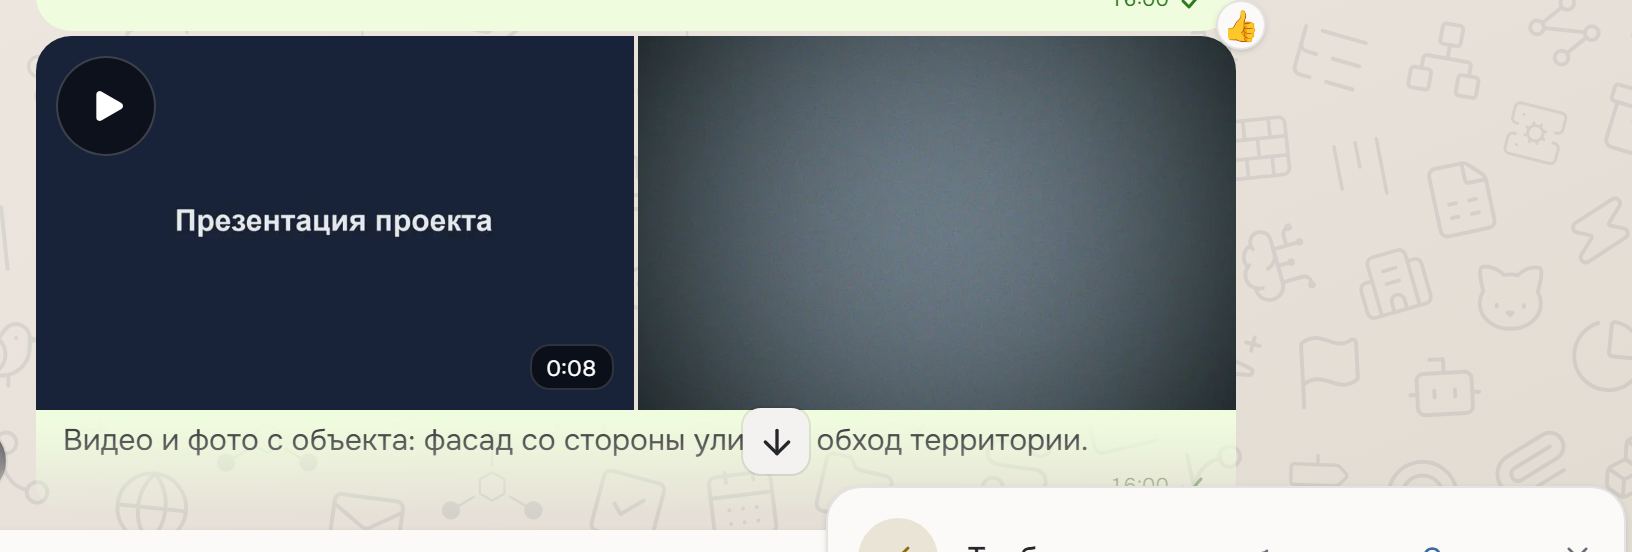
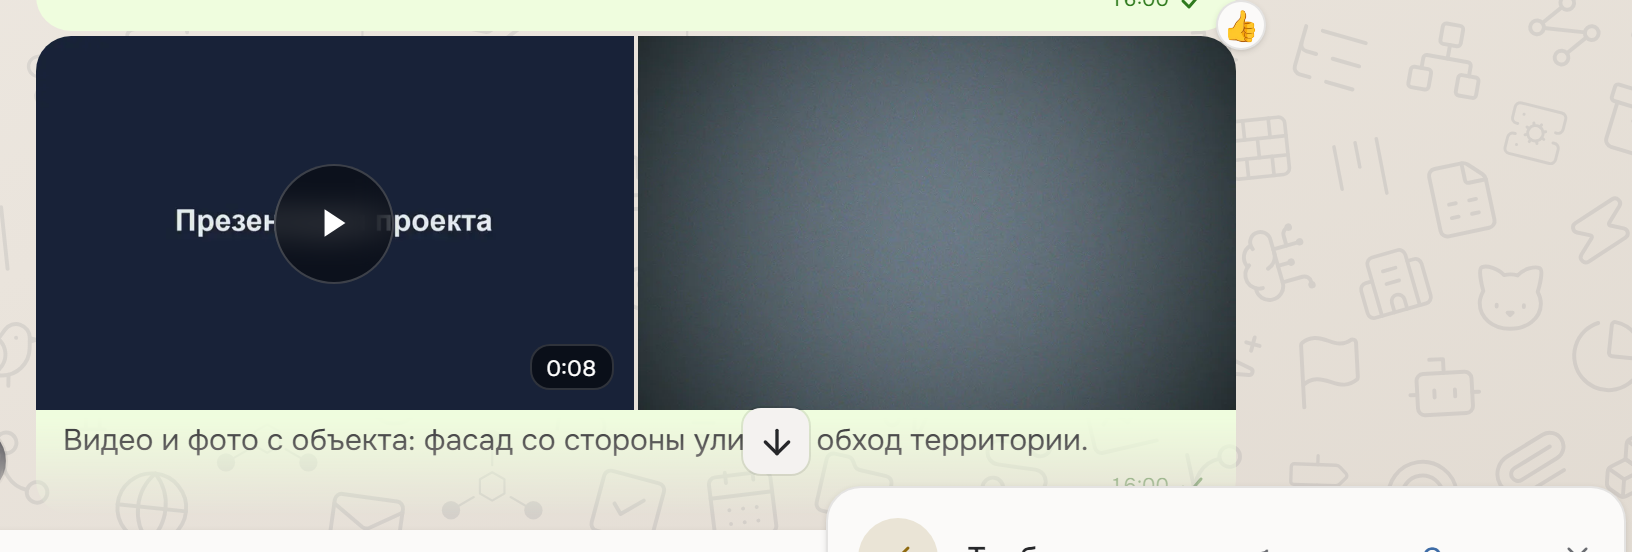
fix(web): play по центру превью и ровный треугольник (#250)

Changed region(s): [[0.1562, 0.2772, 0.25, 0.5236], [0.0312, 0.0924, 0.0938, 0.2772]]

diff --git a/apps/web/src/shared/chat/attachment-gallery.tsx b/apps/web/src/shared/chat/attachment-gallery.tsx
@@ -1,5 +1,4 @@
 import { useState } from 'react';
-import { Play } from 'lucide-react';
 import type { MessageAttachment } from '@nodus/contracts';
 import { ui } from '@nodus/contracts';
 import { cn } from '@nodus/ui/lib/utils';
@@ -7,6 +6,7 @@ import { cn } from '@nodus/ui/lib/utils';
 import { useViewerHost } from '../files/viewer-host.js';
 import { handleVideoSeekKey } from '../files/video-seek-keys.js';
 import { ImageLightbox } from './image-lightbox.js';
+import { VideoPlayGlyph } from './video-play-glyph.js';
 import { uiPx } from '../ui/ui-scale.js';
 
 /**
@@ -134,11 +134,12 @@ function GalleryTile({
 }
 
 /**
- * Видео-плитка (#250, решение владельца 07.10: модель Битрикс24): постер —
- * серверный кадр (WebP), play в левом верхнем углу играет ролик НА МЕСТЕ
- * (нативные контролы), клик по остальной плитке открывает большой плеер,
- * справа внизу — длительность. Кодек не поддержан — вежливая карточка
- * «Не удалось воспроизвести — Скачать» на месте ролика (без сломанного плеера).
+ * Видео-плитка (#250, модель Битрикс24/Telegram; уточнение владельца
+ * 25.11.2026): постер — серверный кадр (WebP), play ПО ЦЕНТРУ кадра играет
+ * ролик НА МЕСТЕ (нативные контролы), клик по остальной плитке открывает
+ * большой плеер, справа внизу — длительность. Кодек не поддержан — вежливая
+ * карточка «Не удалось воспроизвести — Скачать» на месте ролика (без
+ * сломанного плеера).
  */
 function VideoGalleryTile({
   video,
@@ -216,16 +217,18 @@ function VideoGalleryTile({
             </span>
           ) : (
             <>
-              {/* Play — литая чашка 40px: на тёмных постерах чёрный круг
-                  сливался с кадром (обе темы), hairline-обводка держит край. */}
+              {/* Play — по ЦЕНТРУ кадра, как в Битриксе/Telegram (уточнение
+                  владельца 25.11.2026): крупная литая чашка, hairline-обводка
+                  держит край на тёмных постерах; `m-auto` при inset-0 — точное
+                  центрирование без дробных transform-сдвигов. */}
               <button
                 type="button"
                 onClick={() => setMode('playing')}
                 aria-label={ui.chat.videoPlay}
                 title={ui.chat.videoPlay}
-                className="absolute top-2 left-2 z-10 grid size-10 place-items-center rounded-full border border-white/20 bg-black/50 text-white backdrop-blur-sm transition-colors hover:bg-black/70"
+                className="absolute inset-0 z-10 m-auto grid size-12 place-items-center rounded-full border border-white/20 bg-black/50 text-white backdrop-blur-sm transition-colors hover:bg-black/70"
               >
-                <Play className="size-4 translate-x-[1px]" fill="currentColor" strokeWidth={0} />
+                <VideoPlayGlyph className="size-5" />
               </button>
               {duration !== null ? (
                 <span className="pointer-events-none absolute right-2 bottom-2 z-10 rounded-md border border-white/15 bg-black/55 px-1.5 py-0.5 font-mono text-label-xs text-white tabular-nums">

diff --git a/apps/web/src/shared/chat/vault-list.tsx b/apps/web/src/shared/chat/vault-list.tsx
@@ -1,4 +1,4 @@
-import { Download, Link2, MessagesSquare, Play } from 'lucide-react';
+import { Download, Link2, MessagesSquare } from 'lucide-react';
 import type { ReactNode } from 'react';
 import type {
   FavoriteCard,
@@ -13,6 +13,7 @@ import { FileTypeIcon } from '../files/file-type-icon.js';
 import { formatBytes, formatDateTimeShort } from '../lib/format.js';
 import { formatVideoDuration } from './attachment-gallery.js';
 import { useJumpStore } from './jump-store.js';
+import { VideoPlayGlyph } from './video-play-glyph.js';
 
 /**
  * Рендереры элементов витрины (#211, ревизия 05.10): плитка медиа-сетки
@@ -68,10 +69,11 @@ export function MediaTile({
         ) : null}
         {isVideo ? (
           <>
-            {/* Play-чашка 20px: на плитке витрины 100px капля 28px занимала
-                треть кадра; hairline-обводка держит её на тёмных постерах. */}
-            <span className="pointer-events-none absolute top-1 left-1 grid size-5 place-items-center rounded-full border border-white/20 bg-black/50 text-white">
-              <Play className="size-2.5 translate-x-[1px]" fill="currentColor" strokeWidth={0} />
+            {/* Play — по ЦЕНТРУ плитки (уточнение владельца 25.11.2026),
+                глиф с точным центрированием; hairline-обводка держит чашку
+                на тёмных постерах. */}
+            <span className="pointer-events-none absolute inset-0 m-auto grid size-8 place-items-center rounded-full border border-white/20 bg-black/50 text-white">
+              <VideoPlayGlyph className="size-3.5" />
             </span>
             {durationMs !== null ? (
               <span className="pointer-events-none absolute right-1 bottom-1 rounded border border-white/10 bg-black/60 px-1 py-px font-mono text-label-xs text-white tabular-nums">

diff --git a/apps/web/src/shared/chat/attachment-card.tsx b/apps/web/src/shared/chat/attachment-card.tsx
@@ -1,4 +1,4 @@
-import { Download, Play } from 'lucide-react';
+import { Download } from 'lucide-react';
 import type { MessageAttachment } from '@nodus/contracts';
 import { ui } from '@nodus/contracts';
 import {
@@ -15,6 +15,7 @@ import { FileTypeIcon } from '../files/file-type-icon.js';
 import { useViewerHost } from '../files/viewer-host.js';
 import { formatBytes } from '../lib/format.js';
 import { messageSurface } from './message-surface.js';
+import { VideoPlayGlyph } from './video-play-glyph.js';
 
 /**
  * Карточка вложения НА поверхности сообщения (#144, вердикт «как в Битриксе»
@@ -106,12 +107,12 @@ export function AttachmentCard({
             ) : (
               <FileTypeIcon mime={attachment.mime} className="size-6" />
             )}
-            {/* Play — маленькая чашка по центру постера: сплошная вуаль
-                съедала кадр миниатюры, а белый треугольник без подложки
-                пропадал на светлых кадрах. */}
+            {/* Play — по центру миниатюры, глиф с точным центрированием
+                (#250, уточнение владельца 25.11.2026: на 14 px ручной сдвиг
+                читался кривым). */}
             <span className="absolute inset-0 grid place-items-center">
-              <span className="grid size-3.5 place-items-center rounded-full border border-white/25 bg-black/50 text-white">
-                <Play className="size-2 translate-x-px" fill="currentColor" strokeWidth={0} />
+              <span className="grid size-4 place-items-center rounded-full border border-white/25 bg-black/50 text-white">
+                <VideoPlayGlyph className="size-2.5" />
               </span>
             </span>
           </span>

diff --git a/apps/web/src/shared/chat/attachment-card-video.test.tsx b/apps/web/src/shared/chat/attachment-card-video.test.tsx
@@ -37,7 +37,7 @@ describe('AttachmentCard — видео в карточном списке (#250
     expect(container.querySelector('img')?.getAttribute('src')).toBe(
       '/api/v1/files/thumb-1/content',
     );
-    expect(container.querySelector('.lucide-play')).not.toBeNull();
+    expect(container.querySelector('.video-play-glyph')).not.toBeNull();
 
     fireEvent.click(screen.getByRole('button', { name: 'ролик.mp4' }));
     expect(useViewerStore.getState().target?.fileId).toBe('00000000-0000-4000-8000-0000000000a1');
@@ -46,6 +46,6 @@ describe('AttachmentCard — видео в карточном списке (#250
   it('без постера — иконка типа вместо миниатюры, play остаётся', () => {
     const { container } = render(<AttachmentCard attachment={video({ thumbnailUrl: null })} />);
     expect(container.querySelector('img')).toBeNull();
-    expect(container.querySelector('.lucide-play')).not.toBeNull();
+    expect(container.querySelector('.video-play-glyph')).not.toBeNull();
   });
 });

diff --git a/apps/web/src/shared/chat/attachment-gallery-video.test.tsx b/apps/web/src/shared/chat/attachment-gallery-video.test.tsx
@@ -30,9 +30,9 @@ const video = (overrides: Partial<MessageAttachment> = {}): MessageAttachment =>
 });
 
 /**
- * #250: видео-плитка — постер, play в левом верхнем углу, бейдж длительности;
- * play играет на месте, клик по плитке открывает большой плеер, ошибка кодека
- * — вежливая карточка со скачиванием (без сломанного плеера).
+ * #250: видео-плитка — постер, play по центру, бейдж длительности; play
+ * играет на месте, клик по плитке открывает большой плеер, ошибка кодека —
+ * вежливая карточка со скачиванием (без сломанного плеера).
  */
 describe('AttachmentGallery — видео-плитка (#250)', () => {
   it('постер, play и длительность; клик по плитке открывает плеер', () => {

diff --git a/apps/web/src/shared/chat/video-play-glyph.tsx b/apps/web/src/shared/chat/video-play-glyph.tsx
@@ -1,0 +1,20 @@
+/**
+ * Значок «смотреть» для видео-превью (#250, уточнение владельца 25.11.2026):
+ * треугольник посажен РОВНО по центру собственных границ (bbox x 7–17, y 5.4–18.6
+ * при viewBox 24×24) — без ручных `translate-x`, из-за которых на миниатюре
+ * 14–24 px кнопка читалась кривой. Один глиф на плитку ленты, карточный список
+ * и витрину «Видео»: одна грамматика во всех местах.
+ */
+export function VideoPlayGlyph({ className }: { className?: string }) {
+  return (
+    <svg
+      viewBox="0 0 24 24"
+      aria-hidden="true"
+      className={`video-play-glyph ${className ?? ''}`}
+      fill="currentColor"
+      shapeRendering="geometricPrecision"
+    >
+      <path d="M7 5.4 17 12 7 18.6Z" />
+    </svg>
+  );
+}

diff --git a/apps/web/src/features/chat/README.md b/apps/web/src/features/chat/README.md
@@ -335,7 +335,7 @@ gallery — MEDIA_MAX_W;
 клик «по размеру ↔ 100%»; стрелки — панораме, когда картинка больше окна и
 фокус в области, иначе листанию; сбой загрузки — авто-ретрай ×1, затем
 плашка «Не удалось загрузить оригинал» + «Повторить»; БЕЗ скруглений, #151). **Видео (#250, модель Битрикс24/Telegram):**
-медиа-плитка с постером (серверный кадр-WebP), play слева сверху и бейдж
+медиа-плитка с постером (серверный кадр-WebP), play ПО ЦЕНТРУ кадра и бейдж
 длительности (`formatVideoDuration`, M:SS / H:MM:SS) справа снизу. Play —
 ролик играет НА МЕСТЕ нативными контролами (клавиши перемотки #1005 работают),
 клик по остальной плитке — большой плеер (`AttachmentViewer` → «кинозал»,
